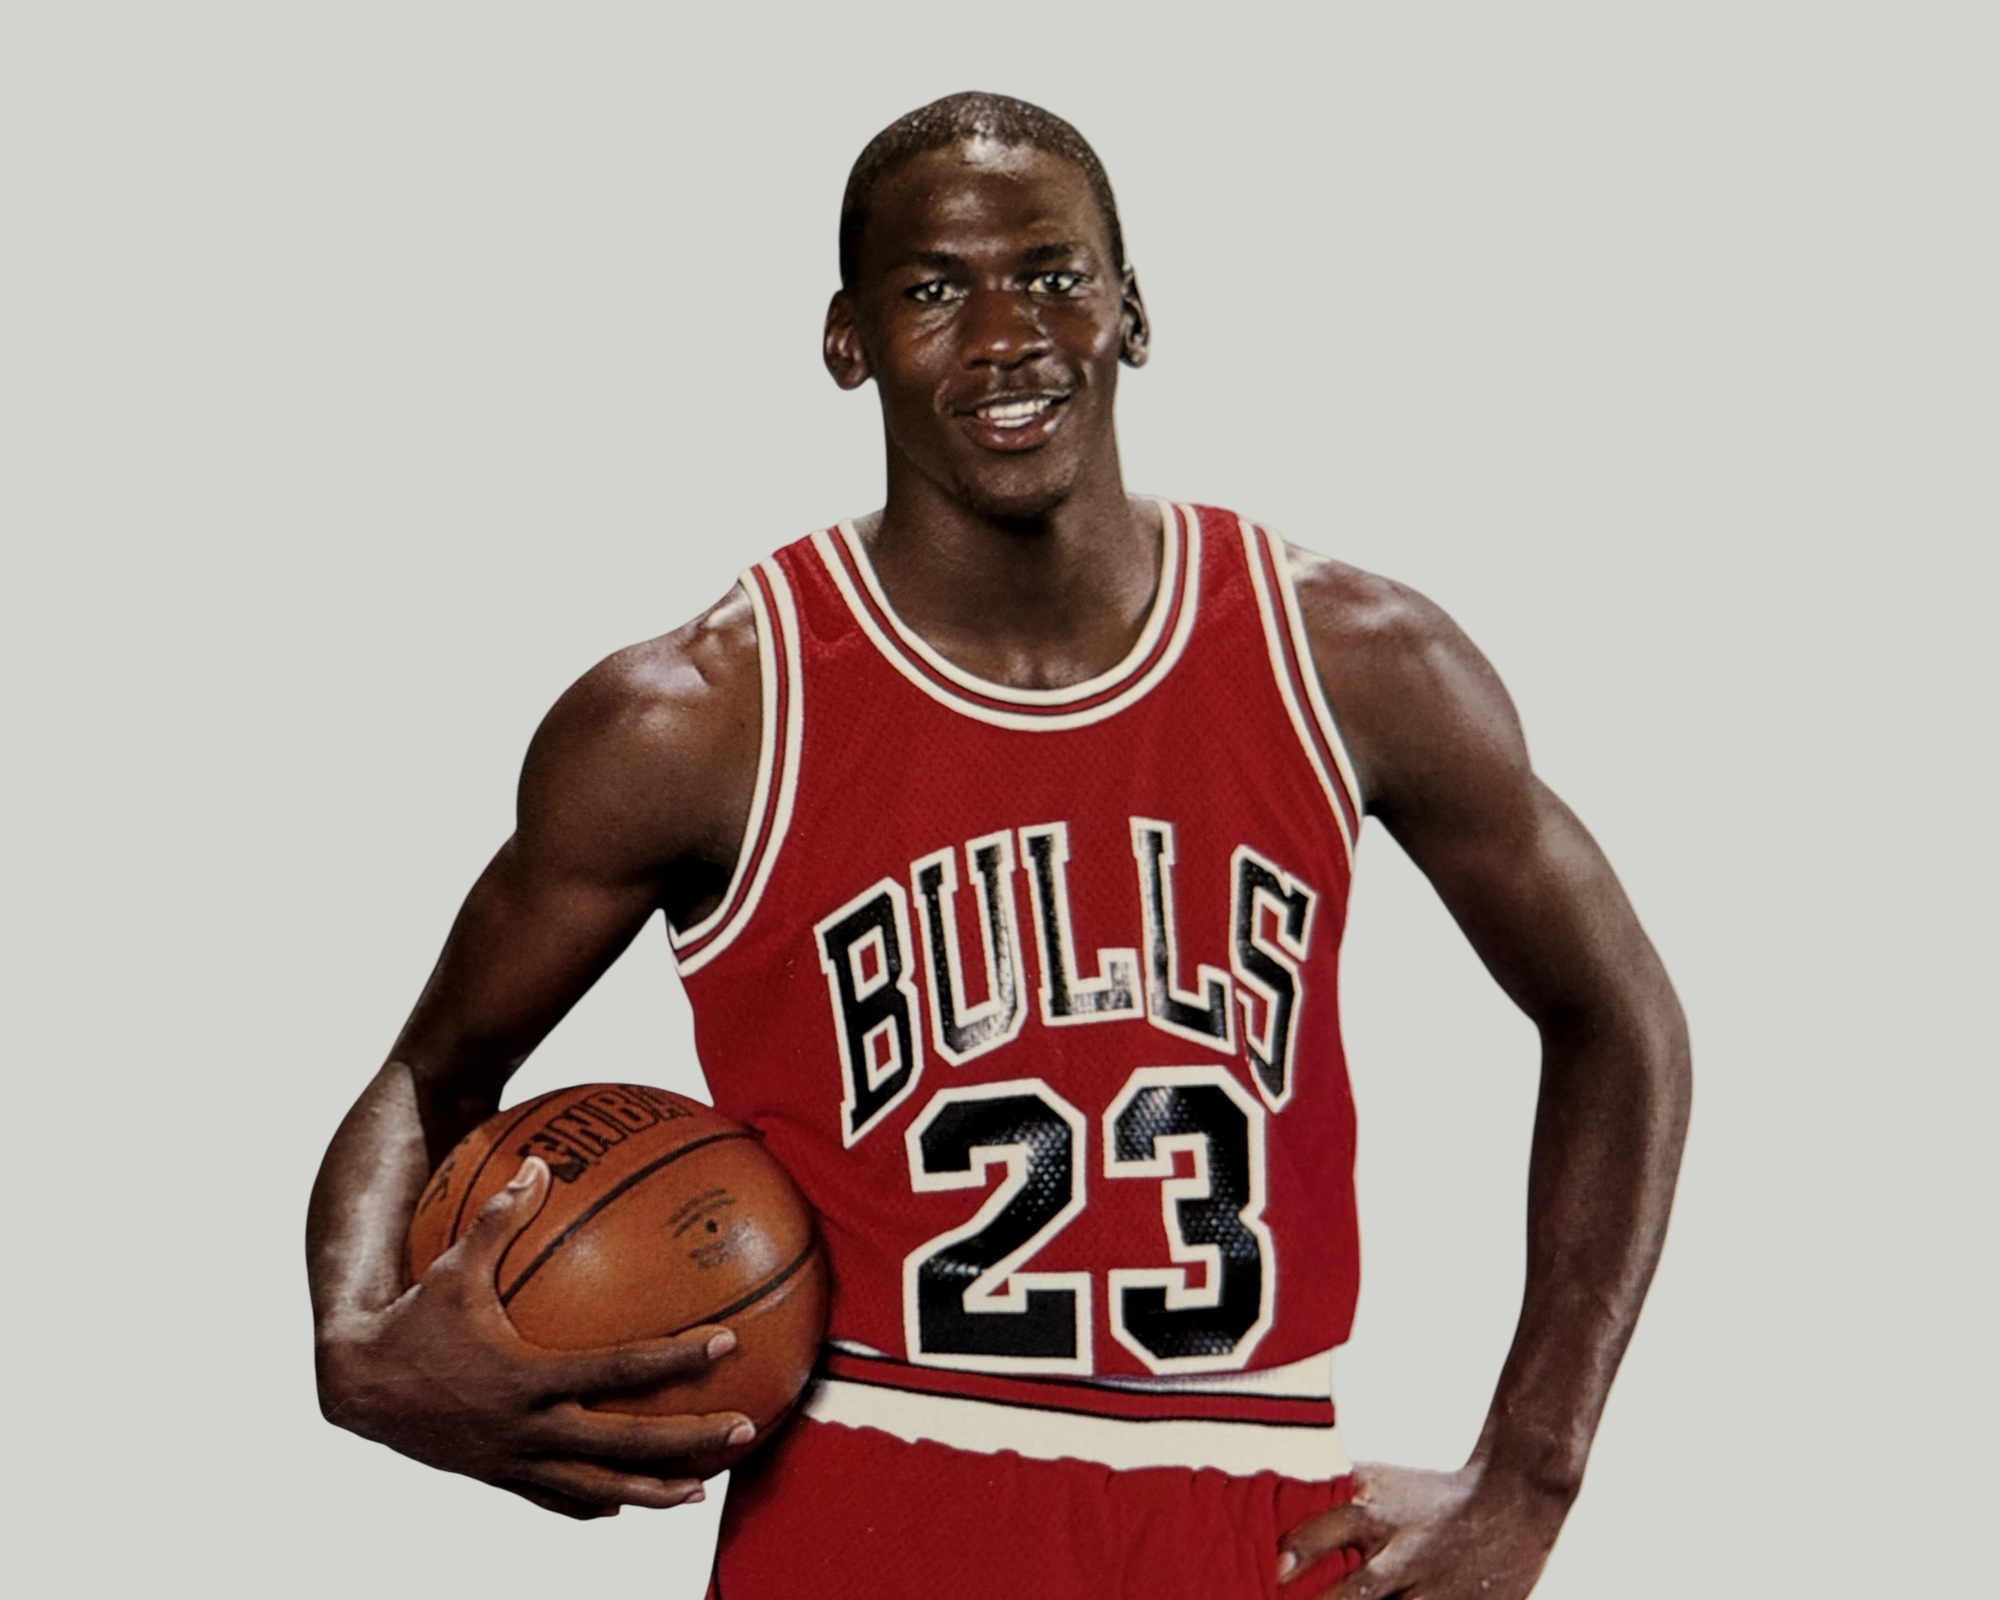
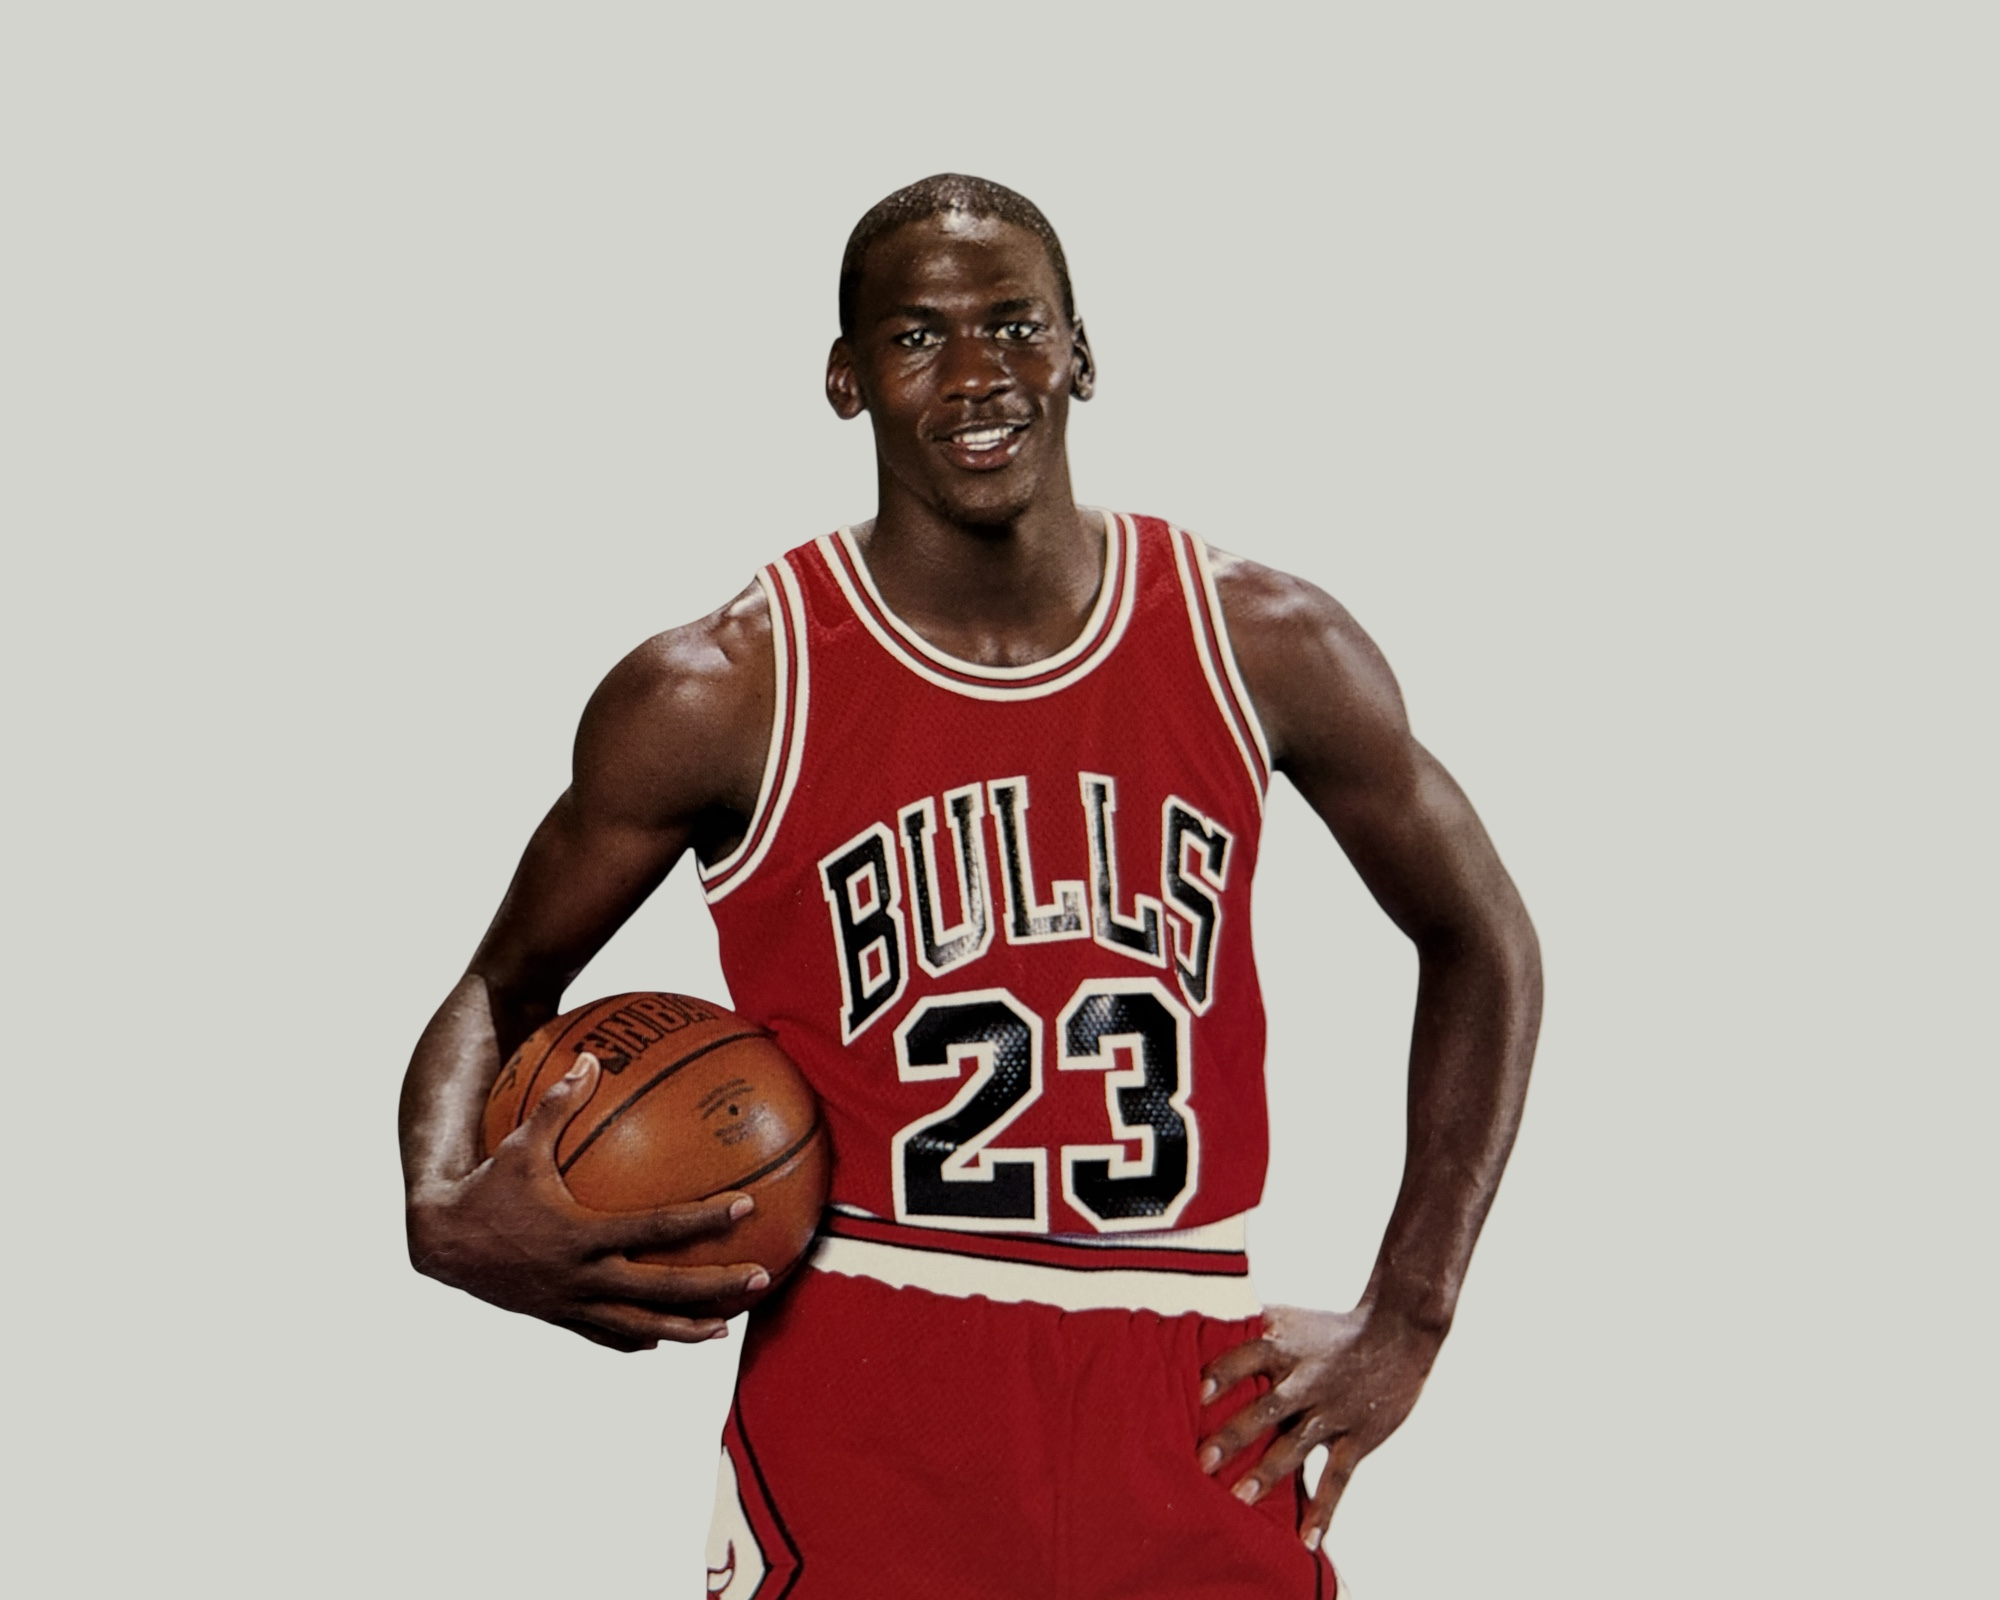
up

Changed region(s): [[0.155, 0.0312, 0.868, 1.0]]

diff --git a/articles/research-standards/index.html b/articles/research-standards/index.html
@@ -240,12 +240,12 @@ content="Archive research examining photographic context, structural comparison,
           <div class="article-mid-hero-kicker">Interlude</div>
 
           <h2>
-            October, 1986.<br>
-            Inside Sports Photo-shoot.
+            October, 1986<br>
+            Inside Sports Photo-shoot
           </h2>
 
           <p class="article-mid-hero-deck">
-            The new "BULLS" jersey design is showcased during preseason.
+            A new "BULLS" jersey design is showcased during preseason
           </p>
         </div>
 

diff --git a/articles/article.css b/articles/article.css
@@ -92,11 +92,14 @@
   text-shadow: 0 14px 40px rgba(0,0,0,0.38);
 }
 
-.article-hero-deck{
-  width: min(100%, 640px);
-  margin: 20px auto 0;
-  color: rgba(255,255,255,0.92);
-  font-size: clamp(17px, 2vw, 23px);
+.article-mid-hero-deck{
+  width: min(100%, 520px);
+  margin: 14px auto 0;
+
+  text-align: center;
+
+  color: rgba(255,255,255,0.70);
+  font-size: clamp(16px, 2vw, 20px);
   line-height: 1.5;
 }
 
